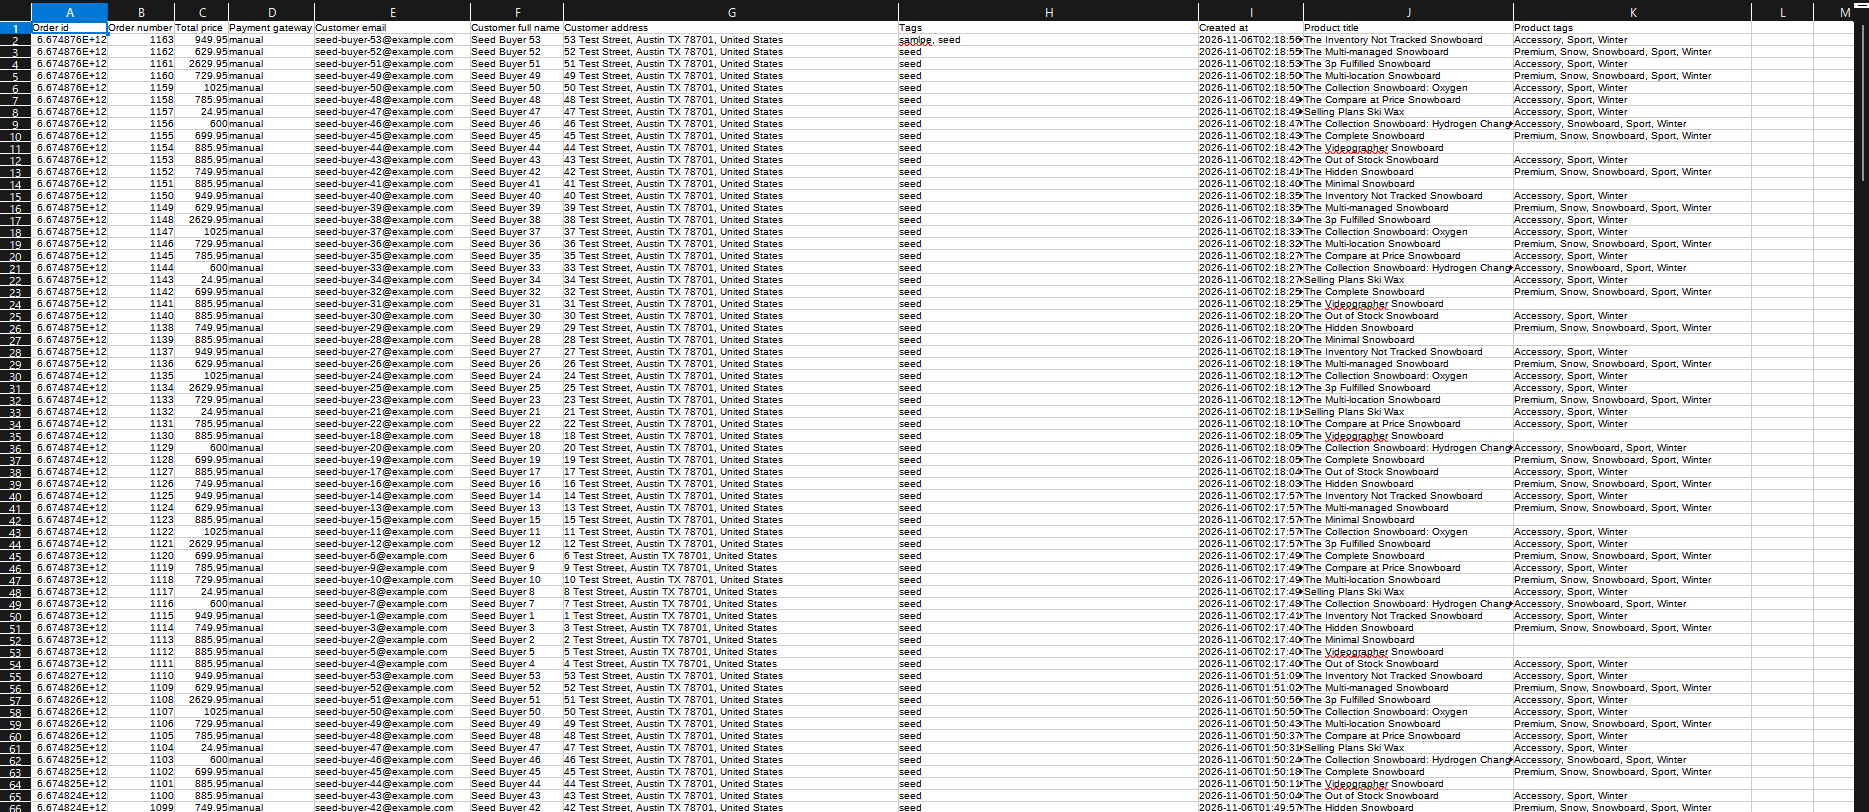
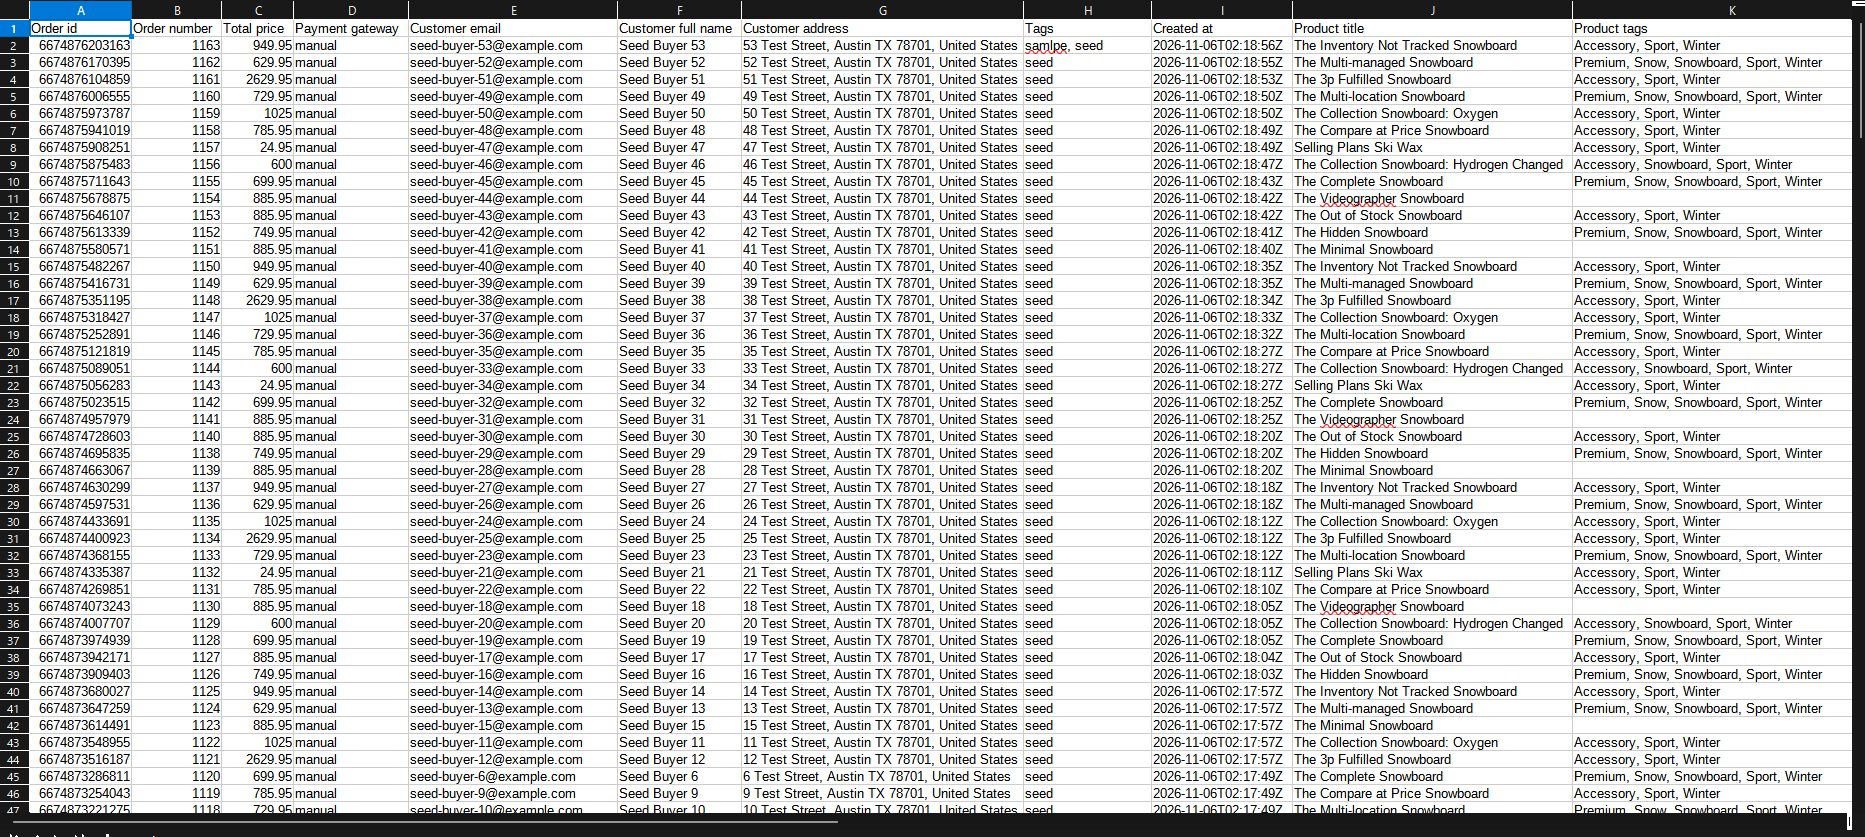
docs: retake the tag editing and CSV screenshots, and correct how Excel shows Order id (#122)
Claude-Session: https://claude.ai/code/session_018YanQ9yfoZTddG3SSoXfnB

diff --git a/docs/known-limitations.ja.md b/docs/known-limitations.ja.md
@@ -22,7 +22,7 @@
 
 - `read_customers` は最初のインストールの後に追加しました(#1)。それ以前にインストールしたストアでは、マーチャントがアプリを開いて新しいスコープを承認するまで、このスコープがありません。それまでは注文のクエリが拒否され、そのストアの注文 Webhook は失敗して再試行されます
 - CSV に通貨の列はありません。*Total price* は注文を最後に取り込んだときのショップの通貨なので、ショップが通貨を変更すると、列に複数の通貨が混在する場合があります(#5)
-- *Order id* は 13 桁以上の単純な数値です。Excel では指数表記で表示されます(`6.674876E+12`。2026-11-06 に Excel で確認、#122)。Excel からファイルを保存すると丸められた形で書き込まれる可能性があります(保存は確認していません)。元のファイルを保持するか、列をテキストとしてインポートしてください(#5)
+- *Order id* は 13 桁以上の単純な数値です。Excel では、列が狭いと指数表記(`6.674876E+12`)で、列を広げると全桁で表示されます(2026-11-06 に Excel で確認、#122)。Excel からファイルを保存すると丸められた形で書き込まれる可能性があります(保存は確認していません)。元のファイルを保持するか、列をテキストとしてインポートしてください(#5)
 - 接頭辞の `'` は、ファイルを開いたときの数式の実行を防ぎますが、OWASP は、ファイルの保存と再度開く操作の後に Excel が引用符やエスケープ文字を取り除く可能性があると警告しています(#5)
 - `customers/redact` が印を付けるのは、アプリが既に保存している注文だけです。`orders_to_redact` にある注文を後で保存すると(たとえば既存の注文の同期で)、顧客フィールドはその時点で Shopify が返す値になります。`app/uninstalled` と `shop/redact` はショップの注文を削除し、`customerRedacted` も一緒に消えます。そのため再インストール後の同期では、Shopify が返す場合、redact 済みの注文の顧客フィールドが保存される可能性があります(#65、#98)
 - ショップのオフライントークン(マーチャントがいないときにアプリが使うアクセストークン)の期限が切れていると `app/uninstalled` の配信が失敗し、ショップのデータが削除されません。`authenticate.webhook` は、ルートのコードが実行される前に期限切れのトークンを更新します。開発ストアでの確認では、リフレッシュトークン自体の期限はまだ数か月先のまま、セッションの `expires` を 1 時間前に設定してアプリをアンインストールしました。確認できた 3 回の配信は 500 を返し、`Received APP_UNINSTALLED` はログに出ず、5 分後も `Session` の行は残っていました。同じ日のそれより前のアンインストールでは、セッションの期限は切れておらず、200 を返して行を削除しました。確認できていないのは次の点です: 更新処理が原因であること(アプリはこれについて何もログに出さないので、ライブラリのコードと 2 回のアンインストールの違いから読み取ったものです)、Shopify の残りの再試行の結果、自然に期限切れになったトークンの場合、この状態での `shop/redact` と `customers/redact`(同じコードを通るので、セッションが残っている間は同様に失敗すると想定しています)。本番環境については[行 5](#5-顧客データ)を参照してください(#95)

diff --git a/docs/known-limitations.md b/docs/known-limitations.md
@@ -20,7 +20,7 @@ The full list. The [README](../README.md#known-limitations--production-considera
 
 - `read_customers` was added after the first install (#1). A store installed before that has it only once the merchant opens the app and approves the new scope. Until then the order query is denied, and order webhooks for that store fail and are retried
 - The CSV has no currency column. *Total price* is in the currency the shop had when the order was last ingested, so the column can mix currencies after a shop changes its currency (#5)
-- *Order id* is a plain number of 13 or more digits. Excel displays it in scientific notation (`6.674876E+12`, seen in Excel on 2026-11-06, #122), and saving the file from Excel can then write the rounded form (saving was not checked). Keep the original file, or import the column as text (#5)
+- *Order id* is a plain number of 13 or more digits. Excel displays it in scientific notation (`6.674876E+12`) while the column is narrow, and in full once the column is widened (seen in Excel on 2026-11-06, #122). Saving the file from Excel may write the rounded form (saving was not checked). Keep the original file, or import the column as text (#5)
 - The `'` prefix stops a formula when the file is opened, but OWASP warns that Excel may strip quotes and escape characters after a file is saved and reopened (#5)
 - `customers/redact` marks only orders the app has already stored. An order in `orders_to_redact` that is stored later (for example by the sync of existing orders) gets its customer fields as Shopify returns them then. `app/uninstalled` and `shop/redact` delete the shop's orders, and `customerRedacted` goes with them, so after a reinstall a sync can store the customer fields of a redacted order if Shopify returns them (#65, #98)
 - An `app/uninstalled` delivery fails when the shop's offline token (the access token the app uses when no merchant is present) has expired, so the shop's data is not deleted. `authenticate.webhook` refreshes an expired token before the route's code runs. In a check on a development store, the session's `expires` was set one hour into the past, with the refresh token's own expiry still months away, and the app was uninstalled. The three deliveries seen returned 500, `Received APP_UNINSTALLED` was not logged, and the `Session` row was still there 5 minutes later. An uninstall earlier the same day, with a session that had not expired, returned 200 and deleted the rows. Not confirmed: that the refresh is the cause (the app logs nothing for it, so this is read from the library's code and the difference between the two uninstalls), the result of Shopify's remaining retries, a token that expired by itself, and `shop/redact` and `customers/redact` in this state, which go through the same code and are expected to fail the same way while the session remains. For production, see [row 5](#5-customer-data) (#95)
